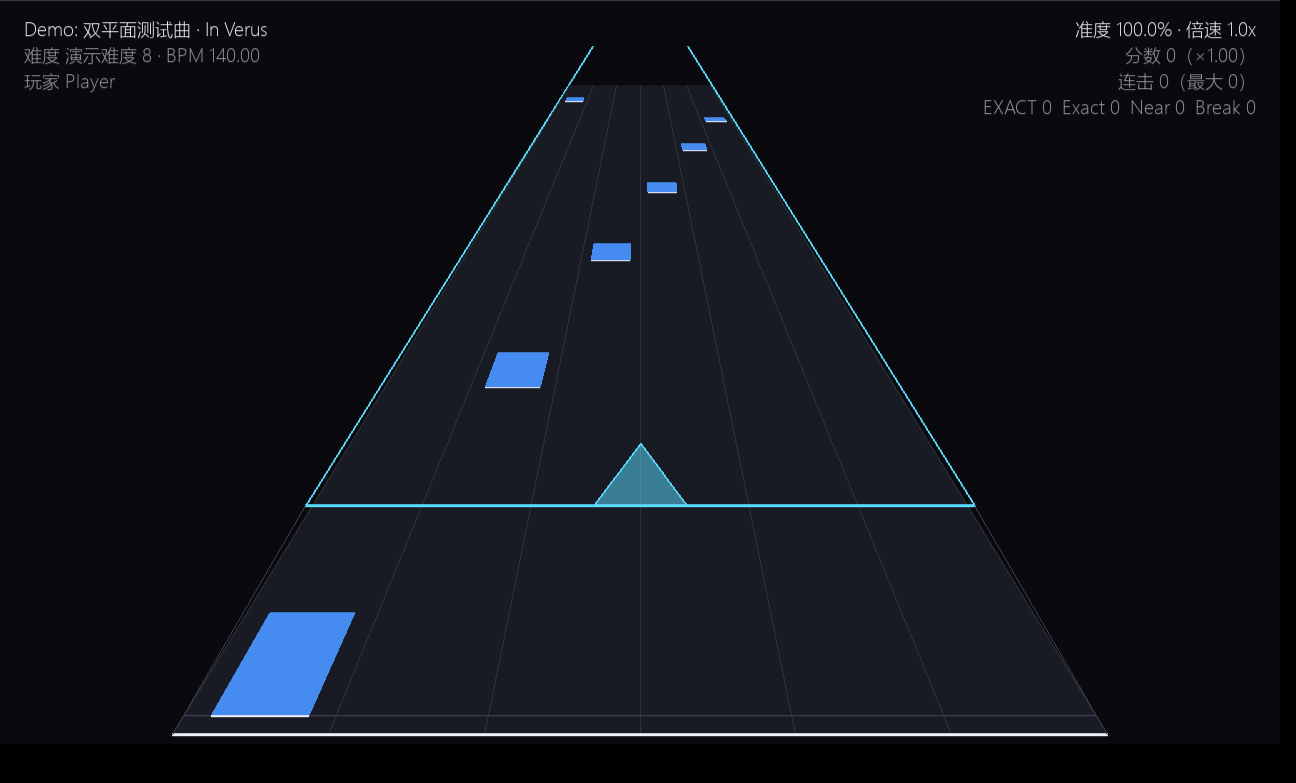
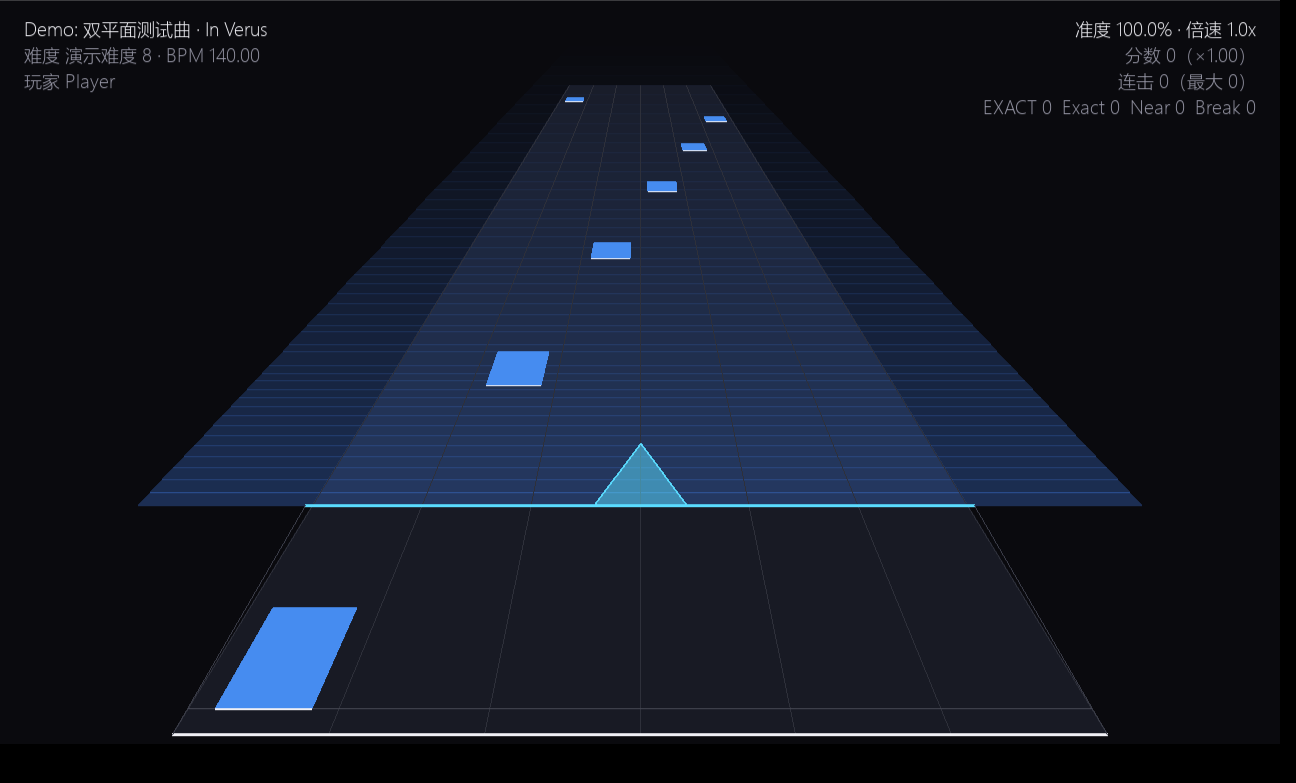
feat(player): 鼠标平面改为蓝底渐变（靠近判定线略蓝、轨道尽头完全透明），移除合法区域左右边线；渐变按屏幕高度均匀切条

Changed region(s): [[0.0926, 0.1839, 0.8951, 0.6437], [0.1543, 0.8889, 0.2469, 0.9195], [0.216, 0.7663, 0.2778, 0.7969]]

diff --git a/tests/test_game_app.py b/tests/test_game_app.py
@@ -884,10 +884,10 @@ class PlayerAppSmokeTests(unittest.TestCase):
         )
         self.assertEqual(app.judge.judged_notes, 0, "滚轮不该判定")
 
-    def test_mouse_plane_has_only_legal_area_side_lines(self) -> None:
-        """鼠标平面不画背景，只画合法区域（±0.5）的左右边线。"""
-        from rhythm_editor.game.app import MOUSE_LEFT, MOUSE_PLANE_HEIGHT
-        from rhythm_editor.game.scene import K6_LEFT, MOUSE_LEGAL_WIDTH, START_Z
+    def test_mouse_plane_has_blue_gradient_and_no_side_lines(self) -> None:
+        """鼠标平面：不画边线；靠近判定线略蓝，向轨道尽头渐变为完全透明。"""
+        from rhythm_editor.game.app import MOUSE_PLANE_HEIGHT
+        from rhythm_editor.game.scene import START_Z
 
         app = self.app
         app._enter_loading()
@@ -895,26 +895,51 @@ class PlayerAppSmokeTests(unittest.TestCase):
         app.settings.rate = 1.0
         quads = []
         lines = []
+        fills = []
         original_quad, original_line = app._quad, app._line
+        original_alpha = app._alpha_quad
         app._quad = lambda points, color: quads.append(points)
-        app._line = lambda a, b, color, width=2: lines.append((a, b))
+        app._line = lambda a, b, color, width=2: lines.append((a, b, color))
+        app._alpha_quad = lambda points, color, alpha: fills.append((list(points), alpha))
         try:
             app._draw_planes(0.0)
         finally:
             app._quad, app._line = original_quad, original_line
-        # 合法区域两侧各有一条边线（从起点一直到判定平面）
-        for edge in (MOUSE_LEFT, MOUSE_LEFT + MOUSE_LEGAL_WIDTH):
-            far = app._proj(edge, MOUSE_PLANE_HEIGHT, START_Z)
-            near = app._proj(edge, MOUSE_PLANE_HEIGHT, 0.0)
-            self.assertTrue(
-                any(
-                    abs(a[0] - far[0]) < 2 and abs(b[0] - near[0]) < 2 for a, b in lines
-                ),
-                "合法区域边界要有边线",
-            )
-        # 鼠标平面不该有底色四边形：默认（侧轨高亮关闭）只剩 6K 平面那一个
-        self.assertEqual(len(quads), 1, "鼠标平面不再画背景")
-        self.assertAlmostEqual(K6_LEFT, -0.75, places=6)
+            app._alpha_quad = original_alpha
+        mouse_lines = [entry for entry in lines if entry[2] == (90, 220, 255)]
+        # 原来的 6K 平面边线也算同色，这里只要求鼠标平面“从起点到判定线”的那两条消失
+        self.assertTrue(fills, "鼠标平面要有一层渐变蓝底")
+        self.assertGreater(len(fills), 8, "渐变要足够细腻")
+        alphas = [alpha for _points, alpha in fills]
+        self.assertGreater(alphas[0], alphas[-1], "靠近判定线更实、远处更透")
+        self.assertLessEqual(alphas[0], 100, "只是『略微不透明』")
+        self.assertGreaterEqual(alphas[-1], 0)
+        self.assertLess(alphas[-1], 12, "轨道尽头接近完全透明")
+        # 第一条紧贴判定线（屏幕 y 就在鼠标判定线处），最后一条已经靠近轨道尽头
+        mouse_line_y = app._proj(0.0, MOUSE_PLANE_HEIGHT, 0.0)[1]
+        first_points = fills[0][0]
+        self.assertAlmostEqual(
+            max(p[1] for p in first_points), mouse_line_y, delta=3.0, msg="最蓝的一条贴着判定线"
+        )
+        self.assertLess(
+            min(p[1] for p in first_points), mouse_line_y - 5, "这条要从判定线往上铺开"
+        )
+        last_points = fills[-1][0]
+        self.assertLess(
+            min(p[1] for p in last_points),
+            min(p[1] for p in first_points) - 100,
+            "渐变一路铺到远处（屏幕更靠上）",
+        )
+        self.assertAlmostEqual(START_Z, 12.0, places=6)
+        # 6K 平面底色仍然只有一个四边形
+        self.assertEqual(len(quads), 1)
+        self.assertFalse(
+            any(
+                abs(a[1] - app._proj(0.0, MOUSE_PLANE_HEIGHT, START_Z)[1]) < 30
+                for a, _b, _c in mouse_lines
+            ),
+            "鼠标平面不再画边线",
+        )
 
     def test_slide_judgement_shows_text_and_sound(self) -> None:
         """滑键判定要出判定文字（回归：以前 on_move 的返回值被丢掉，滑键没有飘字）。"""

diff --git a/src/rhythm_editor/game/app.py b/src/rhythm_editor/game/app.py
@@ -183,6 +183,8 @@ class PlayerApp:
         self.ui: dict = {}
         self.hover = ""
         self._overlay: Optional[pygame.Surface] = None
+        self._plane_strips_key: Optional[Tuple[int, int, int]] = None
+        self._plane_strips: List[float] = []
         self.gl_cost = 0.0                 # OpenGL 呈现耗时（指数平滑，太慢就回退）
         self.gl_frames = 0
         self.display_mode = "windowed"     # windowed / borderless / fullscreen
@@ -1450,6 +1452,28 @@ class PlayerApp:
             width = max(1, int(round(width * scale / ref)))
         self._line(a, b, color, max(1, int(width)))
 
+    def _mouse_plane_strip_z(self, strips: int) -> List[float]:
+        """鼠标平面渐变用的 z 分界：按**屏幕高度**均匀切，渐变色带才均匀。
+
+        直接按 z 均匀切的话，靠近判定线的一条会覆盖半屏（透视压缩），
+        远处又挤成一条；结果就是“下面一大片同色、上面突然变透明”。
+        """
+        key = (self.w, self.h, strips)
+        if self._plane_strips_key == key:
+            return self._plane_strips
+        samples = 240
+        zs = [START_Z * index / samples for index in range(samples + 1)]
+        ys = [self._proj(K6_LEFT, MOUSE_PLANE_HEIGHT, z)[1] for z in zs]
+        y_near, y_far = ys[0], ys[-1]
+        boundaries: List[float] = []
+        for index in range(strips + 1):
+            target = y_near + (y_far - y_near) * index / strips
+            best = min(range(len(zs)), key=lambda i: abs(ys[i] - target))
+            boundaries.append(zs[best])
+        self._plane_strips_key = key
+        self._plane_strips = boundaries
+        return boundaries
+
     def _visible_span_ms(self) -> float:
         """可视毫秒（物件从起点走到判定线所需的**歌曲毫秒**）。
 
@@ -1516,14 +1540,8 @@ class PlayerApp:
         self._quad([far_left, far_right, near_right, near_left], (24, 26, 36))
         self._line(far_left, near_left, K6_TINT, 1)
         self._line(far_right, near_right, K6_TINT, 1)
-        # 鼠标平面：**不画背景**，只保留合法区域左右边线（x = ±0.5）
-        for x in (MOUSE_LEFT, MOUSE_LEFT + MOUSE_LEGAL_WIDTH):
-            self._line(
-                self._proj(x, MOUSE_PLANE_HEIGHT, START_Z),
-                self._proj(x, MOUSE_PLANE_HEIGHT, 0.0),
-                MOUSE_TINT,
-                2,
-            )
+        # 鼠标平面：靠近判定线处略微不透明的蓝色，向轨道尽头渐变为完全透明（不画边线）
+        self._draw_mouse_plane_gradient()
         for lane in range(LANE_COUNT + 1):
             x = K6_LEFT + lane * LANE_WIDTH
             self._line(self._proj(x, 0.0, START_Z), self._proj(x, 0.0, 0.0), (46, 48, 58), 1)
@@ -1573,6 +1591,27 @@ class PlayerApp:
         self._line(m_left, m_right, MOUSE_TINT, 3)
         self._line(k6_left, m_left, (60, 62, 74), 1)
         self._line(k6_right, m_right, (60, 62, 74), 1)
+
+    def _draw_mouse_plane_gradient(self) -> None:
+        """鼠标平面的蓝底渐变（靠近判定线略蓝 → 轨道尽头完全透明）。"""
+        width = LANE_COUNT * LANE_WIDTH
+        boundaries = self._mouse_plane_strip_z(48)
+        steps = len(boundaries) - 1
+        for index in range(steps):
+            z_near, z_far = boundaries[index], boundaries[index + 1]
+            alpha = int(round(96 * (1.0 - (index + 0.5) / steps)))
+            if alpha <= 0:
+                continue
+            self._alpha_quad(
+                [
+                    self._proj(K6_LEFT, MOUSE_PLANE_HEIGHT, z_far),
+                    self._proj(K6_LEFT + width, MOUSE_PLANE_HEIGHT, z_far),
+                    self._proj(K6_LEFT + width, MOUSE_PLANE_HEIGHT, z_near),
+                    self._proj(K6_LEFT, MOUSE_PLANE_HEIGHT, z_near),
+                ],
+                (58, 108, 200),
+                alpha,
+            )
 
     @staticmethod
     def _layer_of(note: Note) -> int:

diff --git a/docs/VERIFICATION.md b/docs/VERIFICATION.md
@@ -113,7 +113,7 @@ python tools/check_audio.py
 
 | 项目 | 命令 | 结果 |
 | --- | --- | --- |
-| 单元测试（含 Tk 画布冒烟测试、应用级测试与游玩器测试） | `python -m unittest discover -s tests -t .` | Ran 330 tests — **OK**（含滑键渐变 / 结算显示倍速 / 流速与倍速解耦 / 滑键判定文字 / 剔除阈值与跨度一致） |
+| 单元测试（含 Tk 画布冒烟测试、应用级测试与游玩器测试） | `python -m unittest discover -s tests -t .` | Ran 330 tests — **OK**（含滑键渐变 / 结算显示倍速 / 流速与倍速解耦 / 滑键判定文字 / 剔除阈值与跨度一致 / 鼠标平面蓝底渐变） |
 | 需求验收清单 | `python tools/acceptance.py` | 18 项全部 `[OK ]`，结论：全部通过（含游玩器 4 项） |
 | 音频后端 | `python tools/check_audio.py` | 9 项全部 `[OK ]`（pygame.mixer 真实播放，延迟补偿正确） |
 | 示例谱面生成 | `python run_editor.py --make-demo` | 生成 `charts/demo/demo.json`（6K 32 / 区域 3 / 滑键 6 / 点击按键 4 / 4 个速度组） |
@@ -212,7 +212,7 @@ python tools/check_audio.py
 | `tests/test_game_judge.py`（26 条） | 游玩器判定：EXACT/Exact/Near/Break 窗口、空敲无惩罚、一次按键只判一个、**输入类型必须匹配（6K 键只判 6K、鼠标点击只判鼠标点击按键）**、滑键吸附最好等级、空域半拍区间、长按“抬起事件 + 末 50ms 宽限（跨区间）”、多轨长按“所有行同时抬起才算抬起”、准度与分数公式、分数 × 倍速^1.5、连击与最大连击 |
 | `tests/test_game_scene.py`（9 条） | 游玩器 3D 布局：1 单位 = 鼠标合法区宽 = 6K 中间四轨；鼠标平面高 0.4；两条判定线位置；近大远小；起点在屏幕上方；**游玩区铺满窗口（竖直 ≥85%、水平居中、换尺寸重算）** |
 | `tests/test_game_settings.py`（9 条） | 游玩器设置：默认键位、范围夹取、**流速 ↔ 可视毫秒（1500/n）与老 `scroll_ms` 迁移**、键位补齐、全局读写与损坏回退、最近打开列表去重与上限、渲染后端设置（含非法值回退） |
-| `tests/test_game_app.py`（38 条） | 游玩器 GUI 冒烟（headless）：主界面 → 加载 → 游玩 → 结算、鼠标映射、设置全局保存、轨道高亮与判定飘字、音量与暂停、谱面列表元数据与最近打开、渲染后端切换与回退、倍速（含上限 3x 与分数 ×3^1.5）、charts/ “每个含 json 的文件夹算一张谱面”、没有谱面时也能进设置、打开其他路径的 JSON、判定时刻过去的物件不再绘制、首拍 1.5 秒引导且音乐同步、文本输入走 TEXTINPUT / 键位按键捕获、鼠标可操作主界面 / 设置 / 结算、轨道键优先于界面快捷键（空格 = 第 6 轨）、GL 呈现异常时自动回退软件渲染、`--software` 命令行强制后端、流速行 − ● +、四种物件厚度互相独立、结算页 1/3 + 2/3、窗口尺寸变化不重建显示表面 + F10 / F11、远于可视范围的物件不绘制、每帧 poll 音频后端、短暂无声不立刻结束、远白线更细（透视缩放）、判定字符出现在被判定的物件处（含瞬时物件）、滑键渐变 + 鼠标点击菱形渐变（中间最厚最实、两端尖而淡）+ 线全红 + 鼠标指针躺在鼠标平面内且矮胖、结算最大连击 x / 总数 + 倍速、F11 循环 窗口 / 无边框全屏 / 独占全屏、鼠标指针实心 / 边线规则、滑键厚度与透明度渐变、流速与倍速解耦（1x/0.5x/0.1x/3x 跨度一致）、鼠标点击左右键可判 / 滚轮不判、鼠标平面只画合法区域边线（无背景）、滑键判定有飘字与打击音（回归）、**剔除阈值与可视跨度一致（0.5x 不堆积 / 3x 从轨道尽头出现）** |
+| `tests/test_game_app.py`（38 条） | 游玩器 GUI 冒烟（headless）：主界面 → 加载 → 游玩 → 结算、鼠标映射、设置全局保存、轨道高亮与判定飘字、音量与暂停、谱面列表元数据与最近打开、渲染后端切换与回退、倍速（含上限 3x 与分数 ×3^1.5）、charts/ “每个含 json 的文件夹算一张谱面”、没有谱面时也能进设置、打开其他路径的 JSON、判定时刻过去的物件不再绘制、首拍 1.5 秒引导且音乐同步、文本输入走 TEXTINPUT / 键位按键捕获、鼠标可操作主界面 / 设置 / 结算、轨道键优先于界面快捷键（空格 = 第 6 轨）、GL 呈现异常时自动回退软件渲染、`--software` 命令行强制后端、流速行 − ● +、四种物件厚度互相独立、结算页 1/3 + 2/3、窗口尺寸变化不重建显示表面 + F10 / F11、远于可视范围的物件不绘制、每帧 poll 音频后端、短暂无声不立刻结束、远白线更细（透视缩放）、判定字符出现在被判定的物件处（含瞬时物件）、滑键渐变 + 鼠标点击菱形渐变（中间最厚最实、两端尖而淡）+ 线全红 + 鼠标指针躺在鼠标平面内且矮胖、结算最大连击 x / 总数 + 倍速、F11 循环 窗口 / 无边框全屏 / 独占全屏、鼠标指针实心 / 边线规则、滑键厚度与透明度渐变、流速与倍速解耦（1x/0.5x/0.1x/3x 跨度一致）、鼠标点击左右键可判 / 滚轮不判、鼠标平面改成蓝底渐变（无左右边线，靠近判定线略蓝、轨道尽头完全透明）、滑键判定有飘字与打击音（回归）、剔除阈值与可视跨度一致（0.5x 不堆积 / 3x 从轨道尽头出现）、**鼠标平面渐变实测（判定线 (36,56,97) → 尽头 (24,26,37)，相邻行跳变 ≤2）** |
 
 | 低倍速实测（真实音频，跑真机 20 秒） | 0.5x / 0.1x 下逐帧 `_update` + `audio.poll()` | 0.5x：真实 20s → 歌曲 9.76s、`playing=True` 全程；0.1x：真实 12s → 歌曲 1.15s、`playing=True`；修复前只播完第一段窗口就停 |
 | 慢放接力实测（真实音频） | 0.5x 跑 20 秒并记录 `Channel.get_sound()` 顺序 | 交出 `(0,4000)(4000,8000)(8000,12000)(12000,16000)`，实播 `(0,4000)@0s → (4000,8000)@8.04s → (8000,12000)@16.03s`，**没有被顶掉的窗口** |

diff --git a/CHANGELOG.md b/CHANGELOG.md
@@ -1,5 +1,15 @@
 # 更新日志
 
+## 0.3.15 — 鼠标平面蓝底渐变
+
+* **移除合法区域左右边线**（上一步刚加的那两条），改成一层**蓝底渐变**：
+  靠近判定线处略微不透明（96/255 的蓝），一路向轨道尽头渐变为**完全透明**，
+  所以 6K 平面的远景依然看得清。
+* 渐变按**屏幕高度**均匀切 48 条（而不是按 z 均匀切：那样靠近判定线的第一条会覆盖半屏、
+  远处挤成一条，看起来"下面一大片同色、上面突然透明"）。
+* 实测像素：判定线处 (36,56,97) → 中部 (31,43,70) → 轨道尽头 (24,26,37)（≈背景，完全透明），
+  相邻像素行跳变 ≤2，看不到色带；平面以外的 6K 平面不受影响。
+
 ## 0.3.14 — 低倍速物件堆积 / 高倍速不从尽头出现
 
 * **根因**：上一步把可视跨度改成了 `可视毫秒 × 倍速`（流速与倍速解耦），但**剔除阈值**
